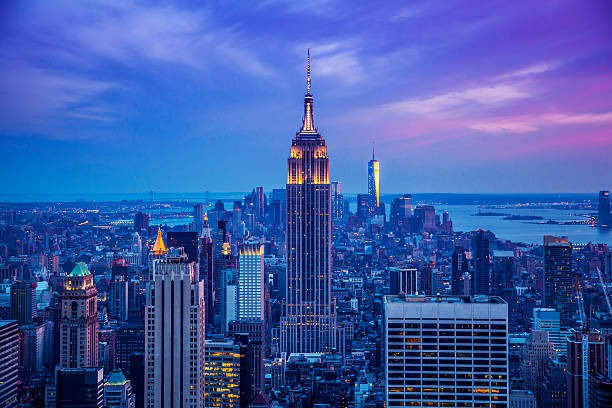
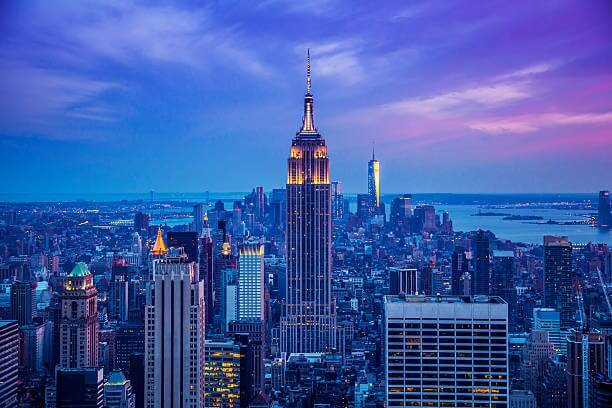
Replace images with compressed images

diff --git a/index.html b/index.html
@@ -53,14 +53,14 @@
       <div class="services-list">
         <a href="./pages/services.html#budget-tracking">
           <figure class="service">
-            <img src="./images/budget-tracking.jpg" alt="Budget tracking" />
+            <img src="./images/budget-tracking.webp" alt="Budget tracking" />
             <figcaption>Budget Tracking</figcaption>
           </figure>
         </a>
 
         <a href="./pages/services.html#savings-goals">
           <figure class="service">
-            <img src="./images/savings.jpg" alt="Savings" />
+            <img src="./images/savings.webp" alt="Savings" />
             <figcaption>Savings Goals</figcaption>
           </figure>
         </a>
@@ -74,7 +74,7 @@
 
         <a href="./pages/services.html#financial-education">
           <figure class="service">
-            <img src="./images/financial-education.jpg" alt="Financial education" />
+            <img src="./images/financial-education.webp" alt="Financial education" />
             <figcaption>Financial Education</figcaption>
           </figure>
         </a>

diff --git a/pages/services.html b/pages/services.html
@@ -60,13 +60,13 @@
           </ul>
         </div>
         <div class="service-img-container">
-          <img src="../images/budget-tracking.jpg" alt="Budget tracking">
+          <img src="../images/budget-tracking.webp" alt="Budget tracking">
         </div>
       </article>
 
       <article class="service" id="savings-goals">
         <div class="service-img-container">
-          <img src="../images/savings.jpg" alt="Savings Goals">
+          <img src="../images/savings.webp" alt="Savings Goals">
         </div>
         <div class="service-content">
           <h2 class="service-header heading-secondary">
@@ -104,7 +104,7 @@
 
       <article class="service" id="financial-education">
         <div class="service-img-container">
-          <img src="../images/financial-education.jpg" alt="Financial Education">
+          <img src="../images/financial-education.webp" alt="Financial Education">
         </div>
         <div class="service-content">
           <h2 class="service-header heading-secondary">

diff --git a/pages/about.html b/pages/about.html
@@ -50,7 +50,7 @@
           platform is dedicated to helping users manage their money effectively and achieve their dreams.
         </p>
       </div>
-      <img src="../images/mission1.jpg" alt="Goal-oriented planning" class="mission-image">
+      <img src="../images/mission1.webp" alt="Goal-oriented planning" class="mission-image">
     </section>
 
     <section class="about-team">
@@ -75,7 +75,7 @@
           </div>
         </div>
         <div class="team-card">
-          <img src="../images/berlin.jpg" alt="Team member 3" class="team-photo">
+          <img src="../images/berlin.webp" alt="Team member 3" class="team-photo">
           <div class="team-info">
             <h3>Emily Johnson</h3>
             <p>Berlin, Germany</p>
